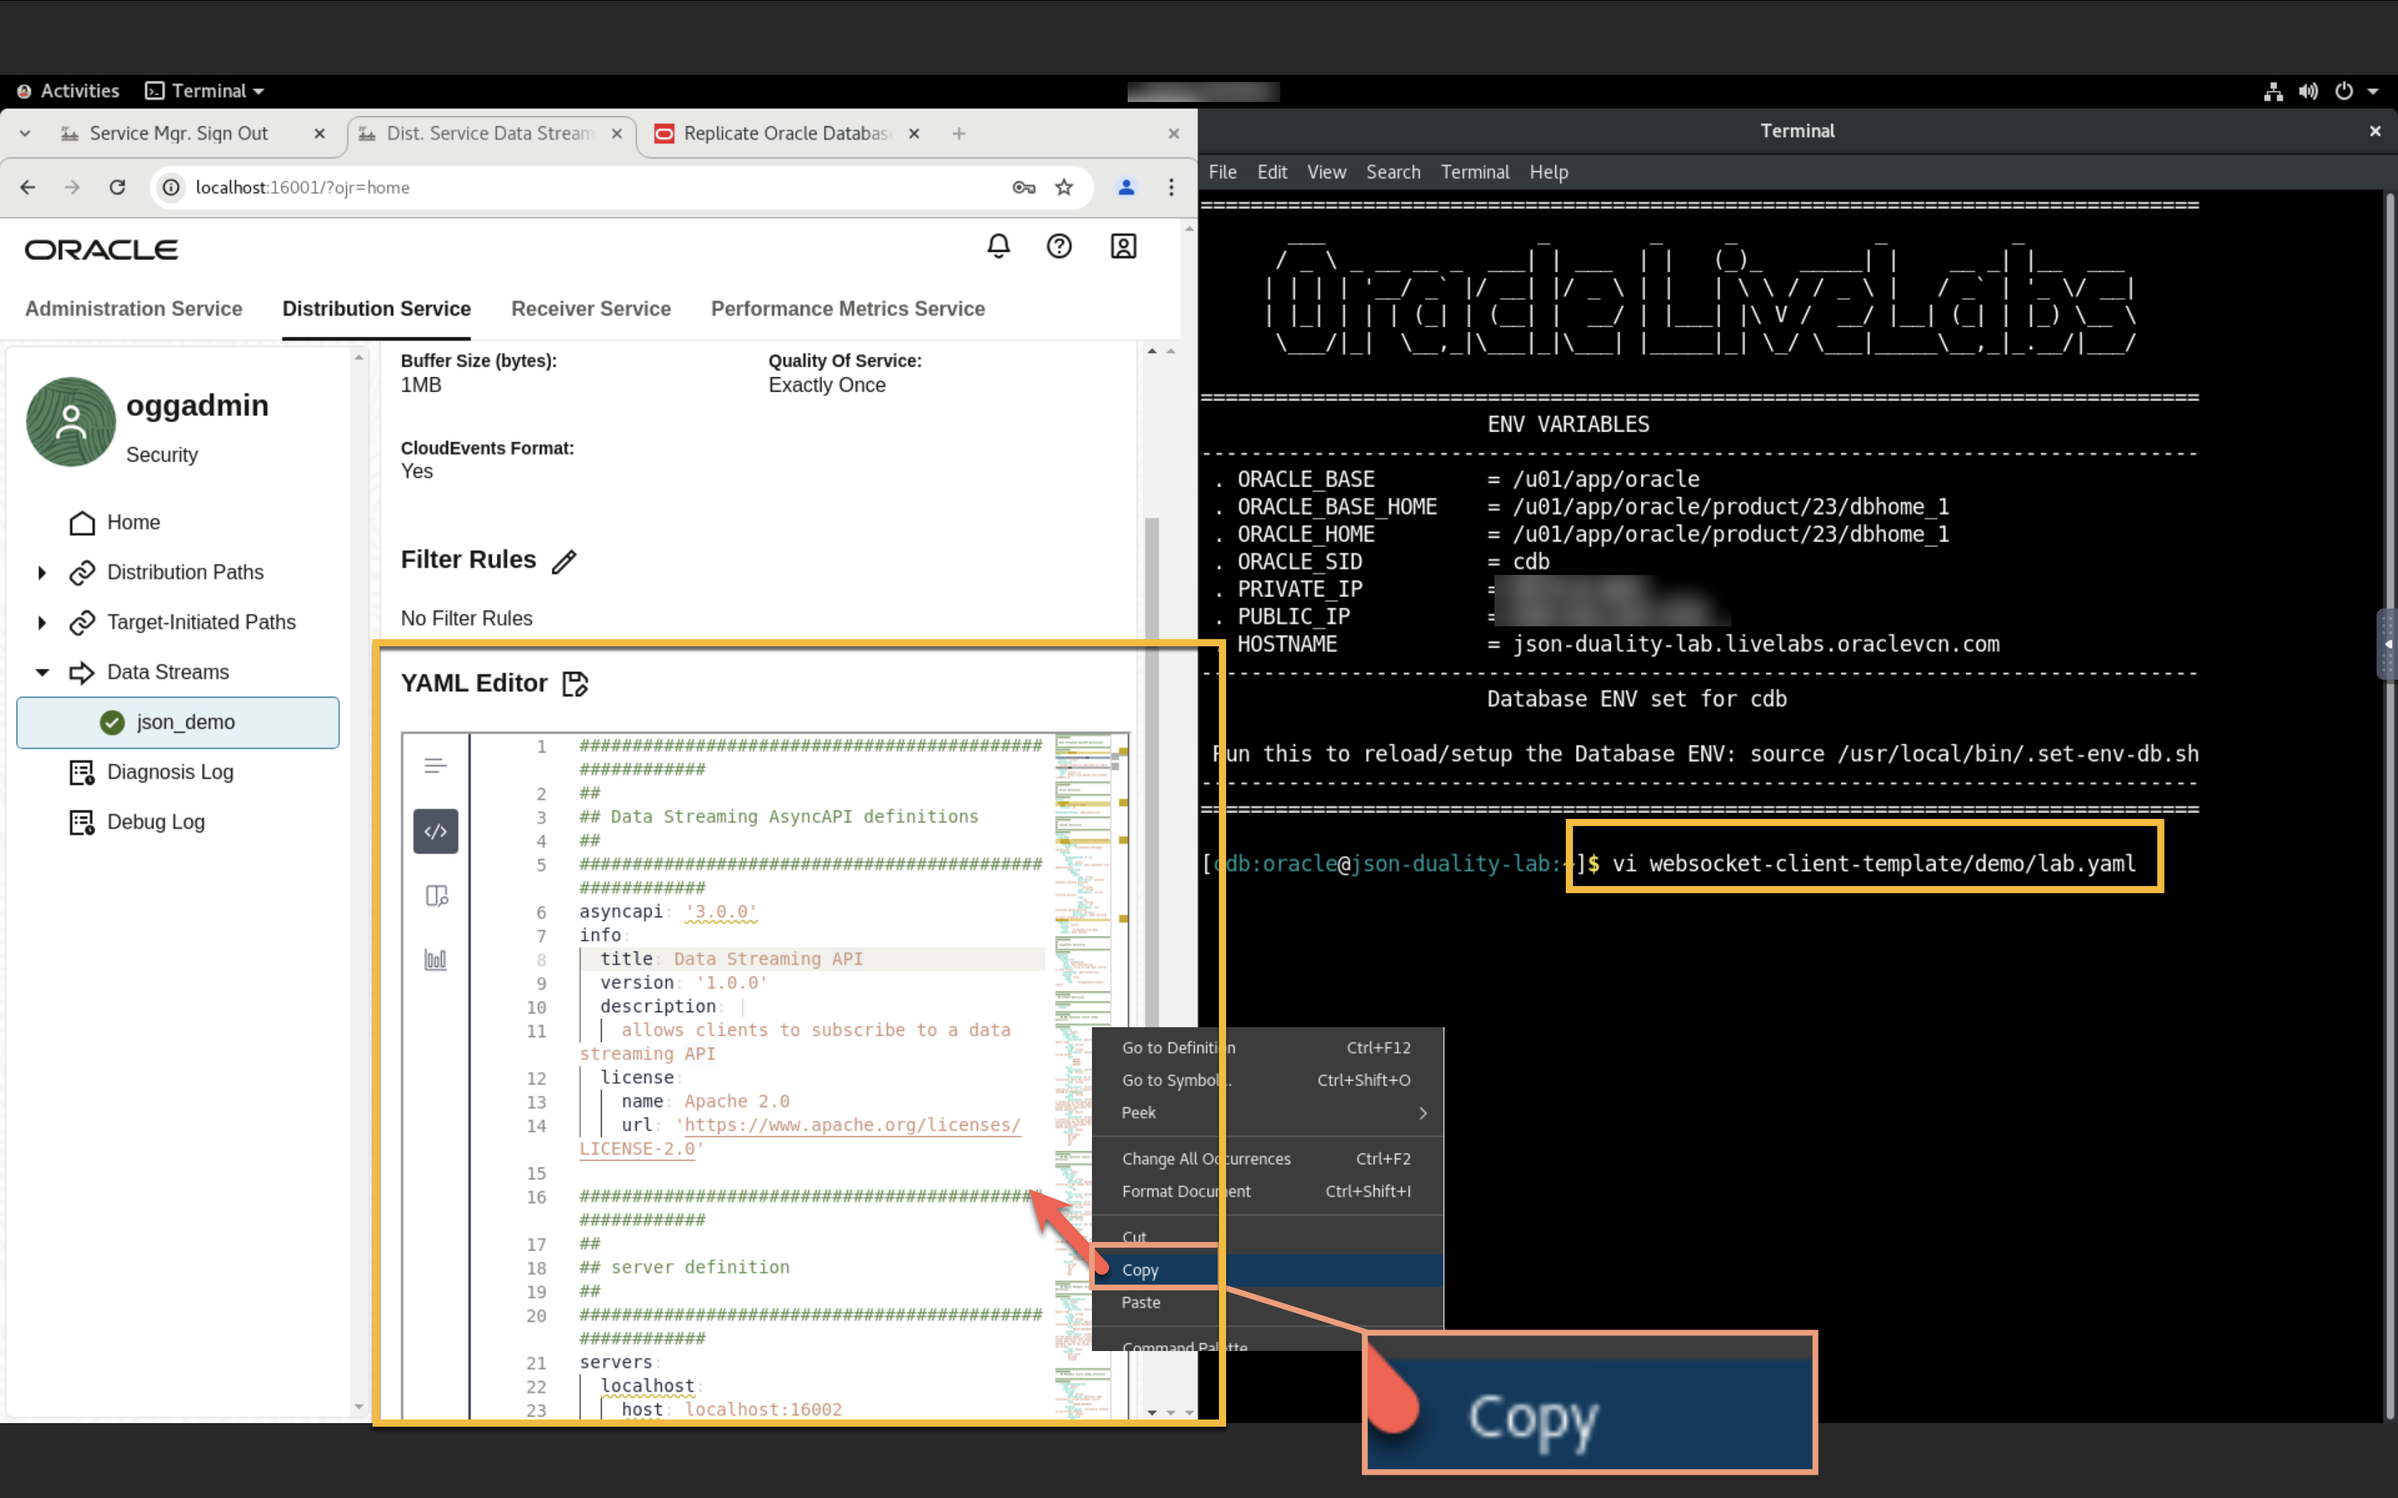
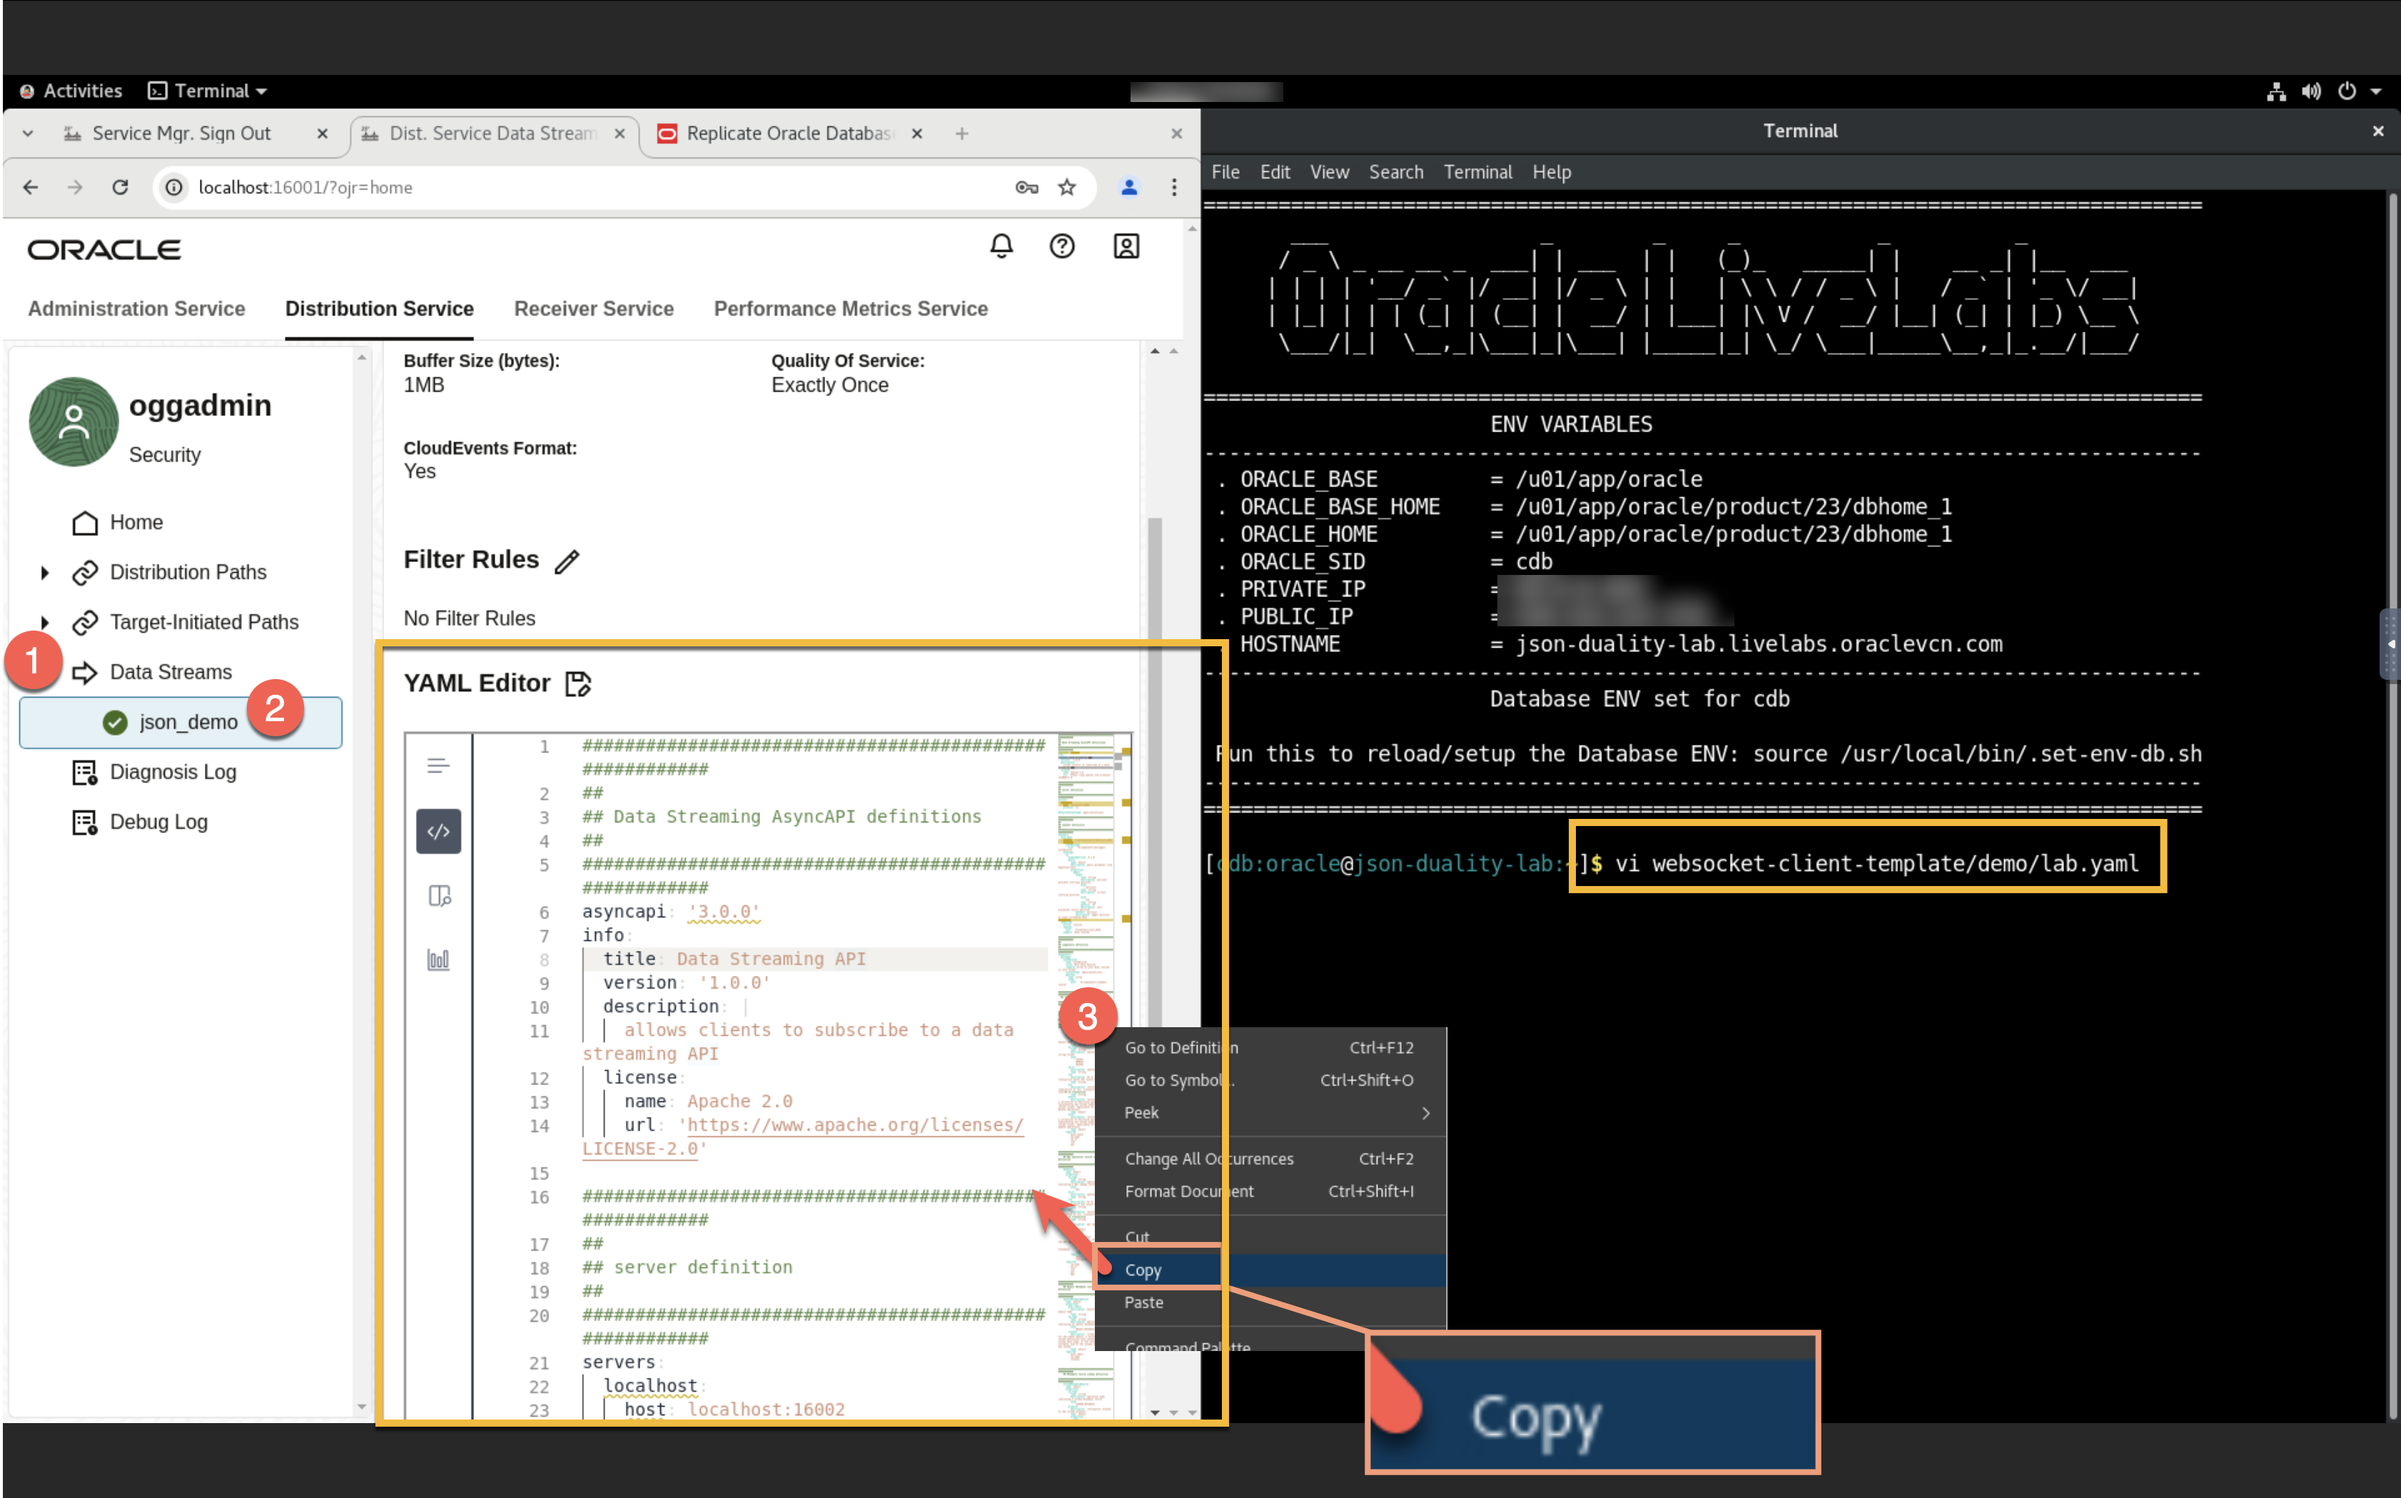
17th April update
17th April update

diff --git a/ogg-json/ora-to-json/ora-to-json.md b/ogg-json/ora-to-json/ora-to-json.md
@@ -24,8 +24,8 @@ This lab assumes you have:
 - You have completed:
     - Lab: Initialize Environment
 
-## Task 1: Create JSON relational duality views
-1.  Open a terminal and create a ***JSON table*** using below snipet.
+## Task 1: Prepare the database for Oracle GoldenGate 
+1.  Open a terminal and enter the following command to create a **JSON table**:
 
     ```
     <copy>sqlplus / as sysdba << EOF 
@@ -70,7 +70,7 @@ This lab assumes you have:
     ![json-table-create-output](./images/json-table-create-output.png " ")
 
 
-2. Create a JSON relational duality view from the below snipet.
+2. Enter the following command to create a JSON relational duality view:
 
     ```
     <copy>sqlplus / as sysdba << EOF 
@@ -138,9 +138,8 @@ This lab assumes you have:
     ```
     ![json-view-create-commad](./images/json-view-create-commad.png " ")
     ![json-view-create-output](./images/json-view-create-output.png " ")
-## Task 2: Preparing the database for Oracle GoldenGate
 
-1. Assigning privileges for Oracle GoldenGate for Oracle.
+3. Enter the following command to assign privileges for Oracle GoldenGate:
 
 
     ```
@@ -162,81 +161,66 @@ This lab assumes you have:
 
   ![gg-user-grants](./images/gg-user-grants.png " ")
 
-## Task 3: Enable table-level supplemental logging for JSON Relational Duality Views and/or JSON Collection
+## Task 2: Enable table-level supplemental logging
 
-1. Login to GoldenGate Administration Service page from the below URL by passing username as ***oggadmin*** and a password as ***oggadmin*** and Click **Sign In**.
-  [http://localhost:16001](http://localhost:16001) 
+1. In a new browser window, open  [http://localhost:16001](http://localhost:16001). 
+2. On the GoldenGate Administration Service, enter **oggadmin** for Username and the password you provided when you created the deployment, and then click **Sign In**.
   ![gg-login-page](./images/gg-login-page.png " ")
 
-2. On the welcome page, click on **DB Connections**, and connect to the source database ***sourcedb***.
+3. Open the navigation menu and then click **DB Connections**.
+4. Click **Connect to database sourcedb**.
   ![dblogin-source](./images/dblogin-source.png " ")
 
-3. Click on the **Trandata** and then Click on the **Add TRANDATA** (***+*** plus icon) to get the add trandata wizard.
+5. Next to **TRANDATA Information**, click **Add TRANDATA** (plus icon)..
   ![dblogin-add-trandata](./images/dblogin-add-trandata.png " ")
 
-4. On ***Trandata*** page, add schema trandata for the schema ***JSON_USER*** and choose the supplemental logging option as shown below and click ***Submit***.
+6. On the Trandata page, complete the following fields, and then click Submit: 
+- For Schema Name, enter JSON_USER. 
+- Under Supplemental Logging Options, select Scheduling Columns and All Columns.
   ![add-trandata](./images/add-trandata.png " ")
-
-5. To validate the supplemental logging for the schema ***JSON_USER*** follow below the instructions.
-  - Select radio button as ***Schema***
-  - Type schema name as ***JSON_USER*** and press ***Enter*** on key board.
+“To verify, enter JSON_USER and then click Search.”
   ![add-trandata-info](./images/home-page.png " ")
 
-## Task 4: Create an Extract and trail file in Oracle GoldenGate.
-1. Click on the ***Home*** button to land on the welcome page to start the extract creation.
-  ![switch to Welcome Page](./images/home-pageadd-trandata-info.png " ")
-2. On welcome page, Click on the **Add Extract** (***+*** plus icon) to get the extract creation wizard.
 
-    Extract is a process that runs agains the source data source connection and extracts, or captures, data. Learn to add an Extract for Oracle Database, OCI Autonomous Databases, Oracle Exadata, and Amazon RDS for Oracle technologies.
-
+## Task 3: Create an Extract and trail file in Oracle GoldenGate.
+1. In the GoldenGate Deployment console, select **Administration Service**, and then on the Administration Service Home page, click **Add Extract** (plus icon).
   ![add-extract](./images/add-extract.png " ")
-3. On extract information page, follow the below instruction.
-  - Choose radio button ***Integrated Extract*** as **Extract type**.
-  - Type the **Process Name** as ***EXTSRC***.
-  - Click ***Next*** to get the **Extract Options** tab.
+2. The Add Extract panel consists of five pages. On the Extract Information page, complete the following fields, and then click Next:
+- For Extract Type, select Integrated Extract.
+- For Process Name, enter a name for this Extract process, such as EXTSRC.
   ![extract-name](./images/extract-name.png " ")
-
-4. On the **Extract Options** tab, choose the source credential and extract trail as instructed below.
-  - select **Domain** as ***<copy>OracleGoldenGate</copy>***
-  - select **Alias** as ***sourcedb***
-  - Type **Extract Trail Name** as ***et***
-  - Click ***Next*** to get the **Extract Options** tab.
+3. On the Extract Options page, complete the following fields, and then click Next:
+- For Domain, select OracleGoldenGate from the dropdown.
+- For Alias, select sourcedb from the dropdown.
+- For Trail Name, enter a two-character name for the Trail file, such as ET.
   ![extract-options](./images/extract-options.png " ")
-
-5. On Managed Options, choose **Profile Name** as ***Default*** and click ***Next***.
+4. On the Managed Options page, leave the fields as they are, and click Next. 
   ![managed-options](./images/managed-options.png " ")
-
-6. Extract has created successfully 
-
-7. Click ***Start*** button to start the extract.
+5. In the Parameter File page, click Create. 
+6. In the EXTSRC Action menu, select Start. In the Confirm Action dialog, click OK.
   ![start-extract](./images/start-extract.png " ")
-
-8. Extract ***EXTSRC*** up and running.
   ![extract-running](./images/extract-running.png " ")
 
-## Task 5: Add a Data Stream from Oracle GoldenGate Distribution Service.
-1. Switch to **Distribution Service** to create a Data Streams.
+## Task 4: Add a Data Stream.
 
-2. On welcome page, Click on the **Add Data Stream** (***+*** plus icon) to get the Data Streams creation wizard.
+1. In the GoldenGate Deployment console, select **Distribution Service**, and then on the Distribution Service Home page, click **Add Data Stream** (plus icon).
   ![add-data-stream](./images/add-data-stream.png " ")
-3. On **Data Stream Information** tab, enter **Name** as ***JSON_DEMO*** and click ***Next***
+2. The Add Data Stream panel consists of three pages. On the Data Stream Information page, for Name enter **JSON_DEMO**, and then click **Next**.
   ![data-stream-info](./images/data-stream-info.png " ")
-4. On **Source Options**,enter **Trail Name** as ***et*** and click ***Next*** 
+3. On the Source Options page, for **Trail Name** enter **et**, and then click **Next**.
   ![data-stream-source-options](./images/data-stream-source-options.png " ")
-5.On **Filtering Options**, click on ***Create Data Stream***
+4. On the Filtering Options page, click **Create Data Stream**. You return to the Distribution Service page, where you can find your newly created **JSON_DEMO** Data Stream after a few moments.
   ![data-stream-filter-options](./images/data-stream-filter-options.png " ")
-6. You will be returned to the Distribution Service home page where the Data Stream ***JSON_DEMO*** is listed.
   ![data-stream-created-successfully](./images/data-stream-created-successfully.png " ")
-  ![data-stream-running](./images/data-stream-running.png " ")
 
-## Task 6: Consume the Change Data from the Data Stream.
-1. Create a YAML file on a terminal to copy the YAML content of the Data Stream.
+## Task 5: Consume the Change Data from the Data Stream.
+1. Enter the following command to create a YAML file:
     ```
     <copy>vi ~/websocket-client-template/demo/lab.yaml</copy>
     ```
     ![data-stream-yaml-copy.](./images/data-stream-yaml-copy-from-browser.png " ")
     ![data-stream-yaml-paste](./images/data-stream-yaml-paste.png " ")
-2.The YAML document can then be used to generate the client-side code using @asyncapi/generator
+2. Enter the following command to generate the client-side code using @asyncapi/generator:
     ```
     <copy>
     cd ~/websocket-client-template/
@@ -244,7 +228,7 @@ This lab assumes you have:
     </copy>
     ```
     ![asynch-command](./images/asynch-command.png " ")
-3. Go to the generated output folder, and install needed packages for client
+3. Enter the following command to install a package:
     ```
     <copy>
     cd ~/websocket-client-template/output
@@ -252,7 +236,7 @@ This lab assumes you have:
     </copy>
     ```
     ![asynch-output-npm](./images/asynch-output-npm.png " ")
-4. Insert change data to the document for testing.
+4. Enter the following command to insert Change Data to the document:
     ```
     <copy>
     sqlplus / as sysdba << EOF 
@@ -266,9 +250,10 @@ This lab assumes you have:
     ```
     ![load-the-data](./images/load-the-data.png " ")
     ![load-the-data-execution-completed](./images/load-the-data-execution-completed.png " ")
-5. Open an Administration Service on browser to validata the change data capture on Extract ***EXTSRC*** 
+5. In the GoldenGate Deployment console, select **Administration Service**, then on the **EXTSRC** Extract page, click Statistics. Validate that each row displays 3 inserts. 
   ![extract-stats](./images/extract-stats.png " ")
-6. Start the client on termminal by accessing username as ***oggadmin***,password as ***oggadmin*** and press ***enter***
+6. Enter the following command on terminal to start the client:
+o	Note: Enter **oggadmin** for Username and the password you provided when you created the deployment.
     ```
     <copy>
     node client.js
